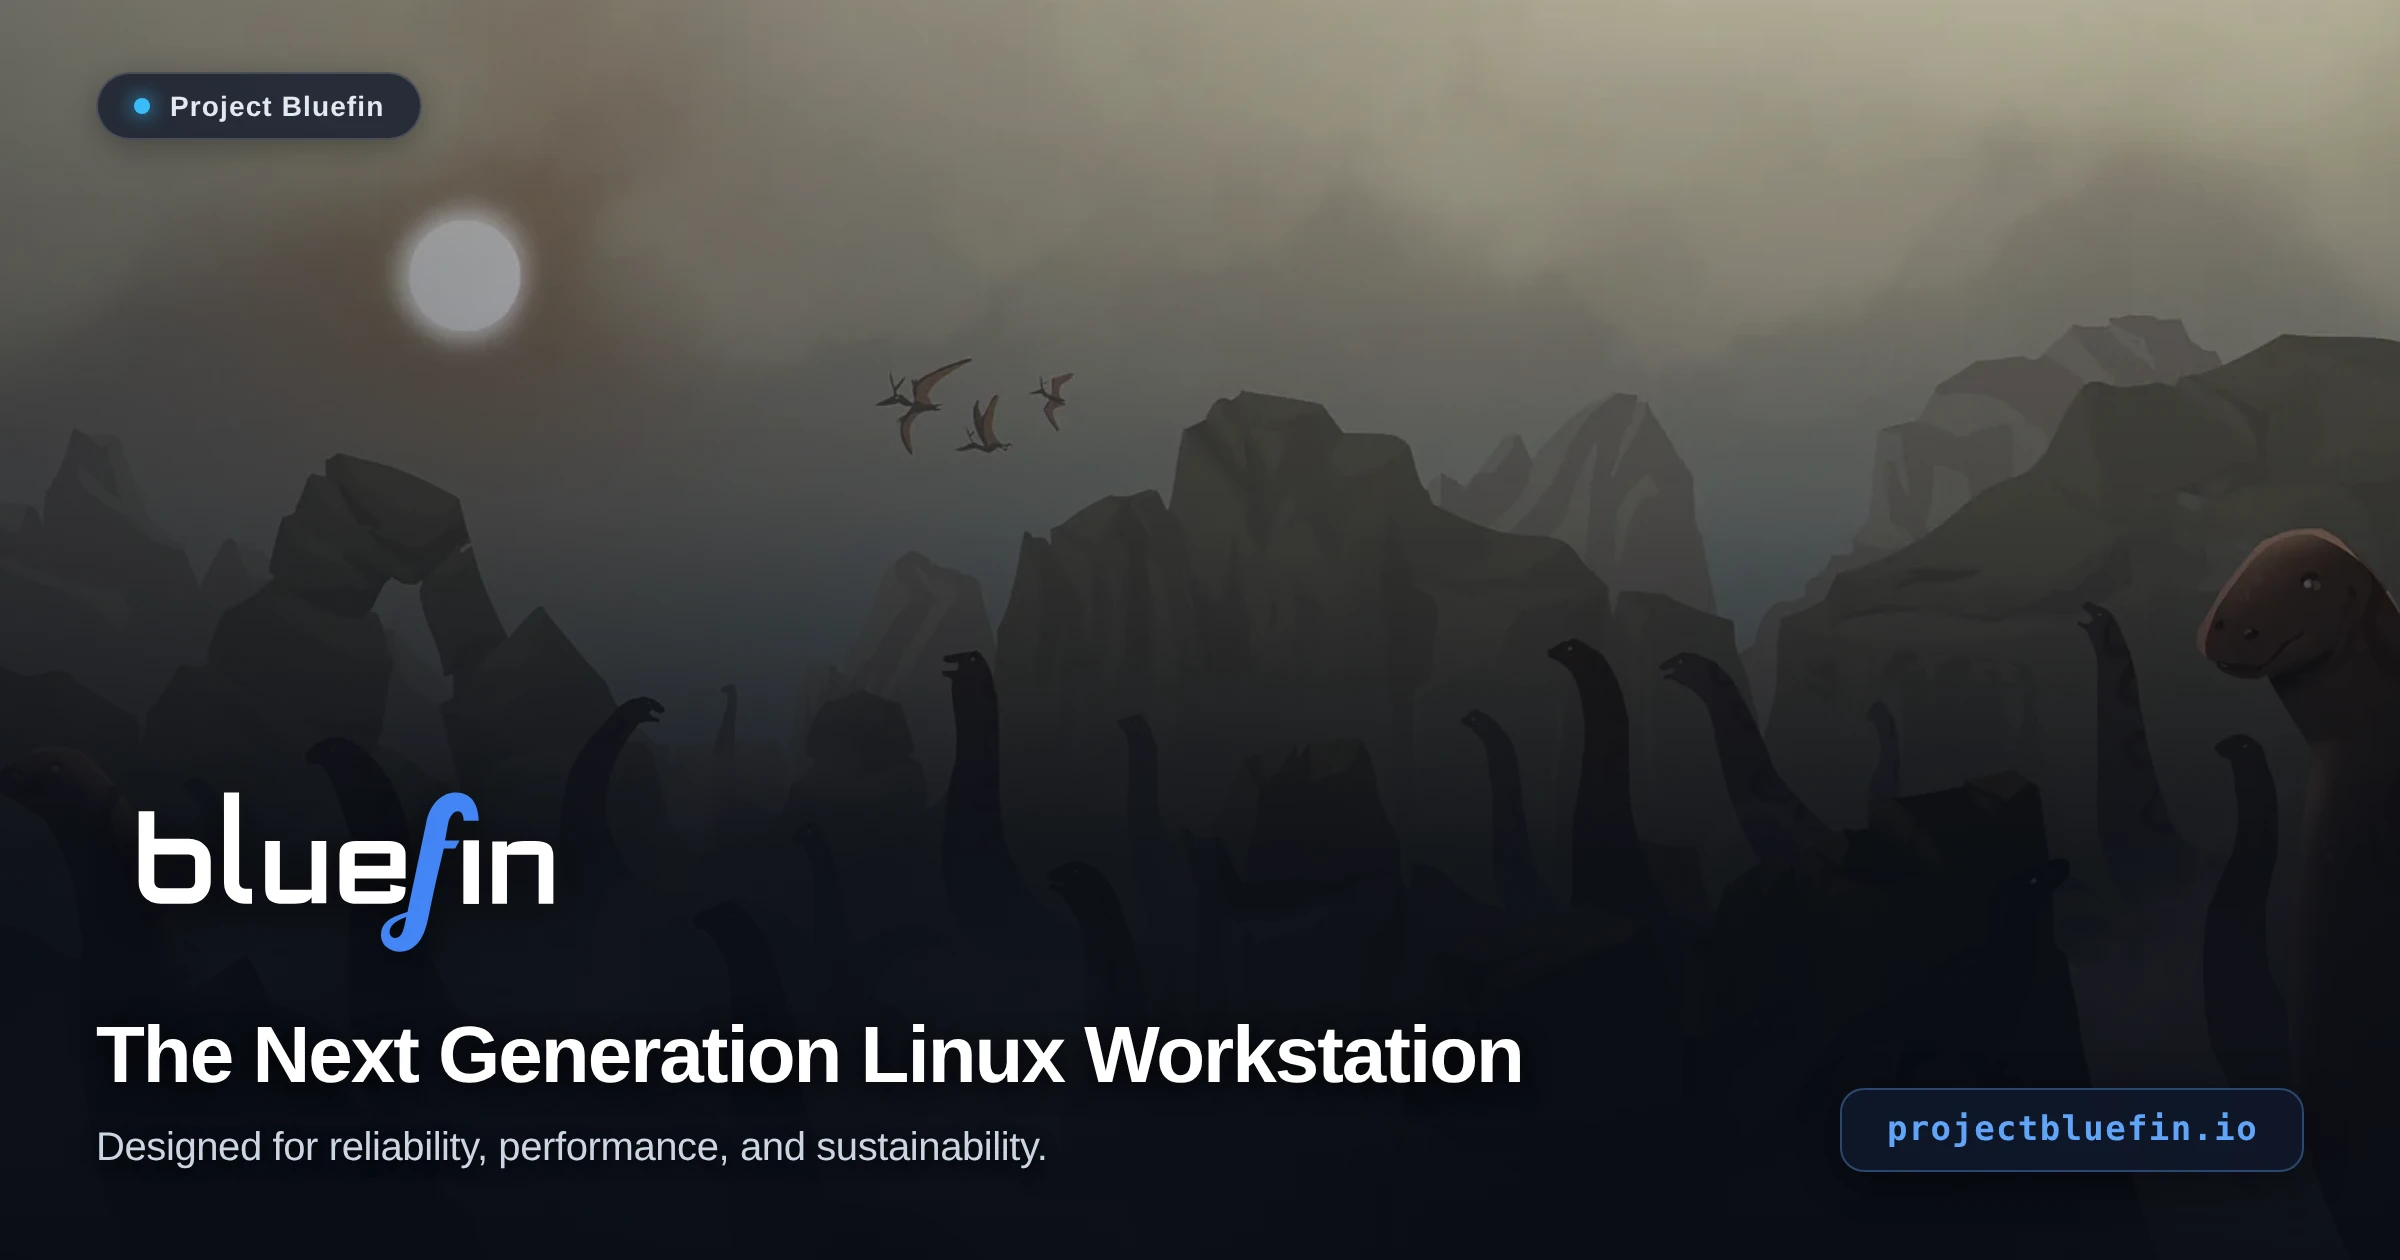
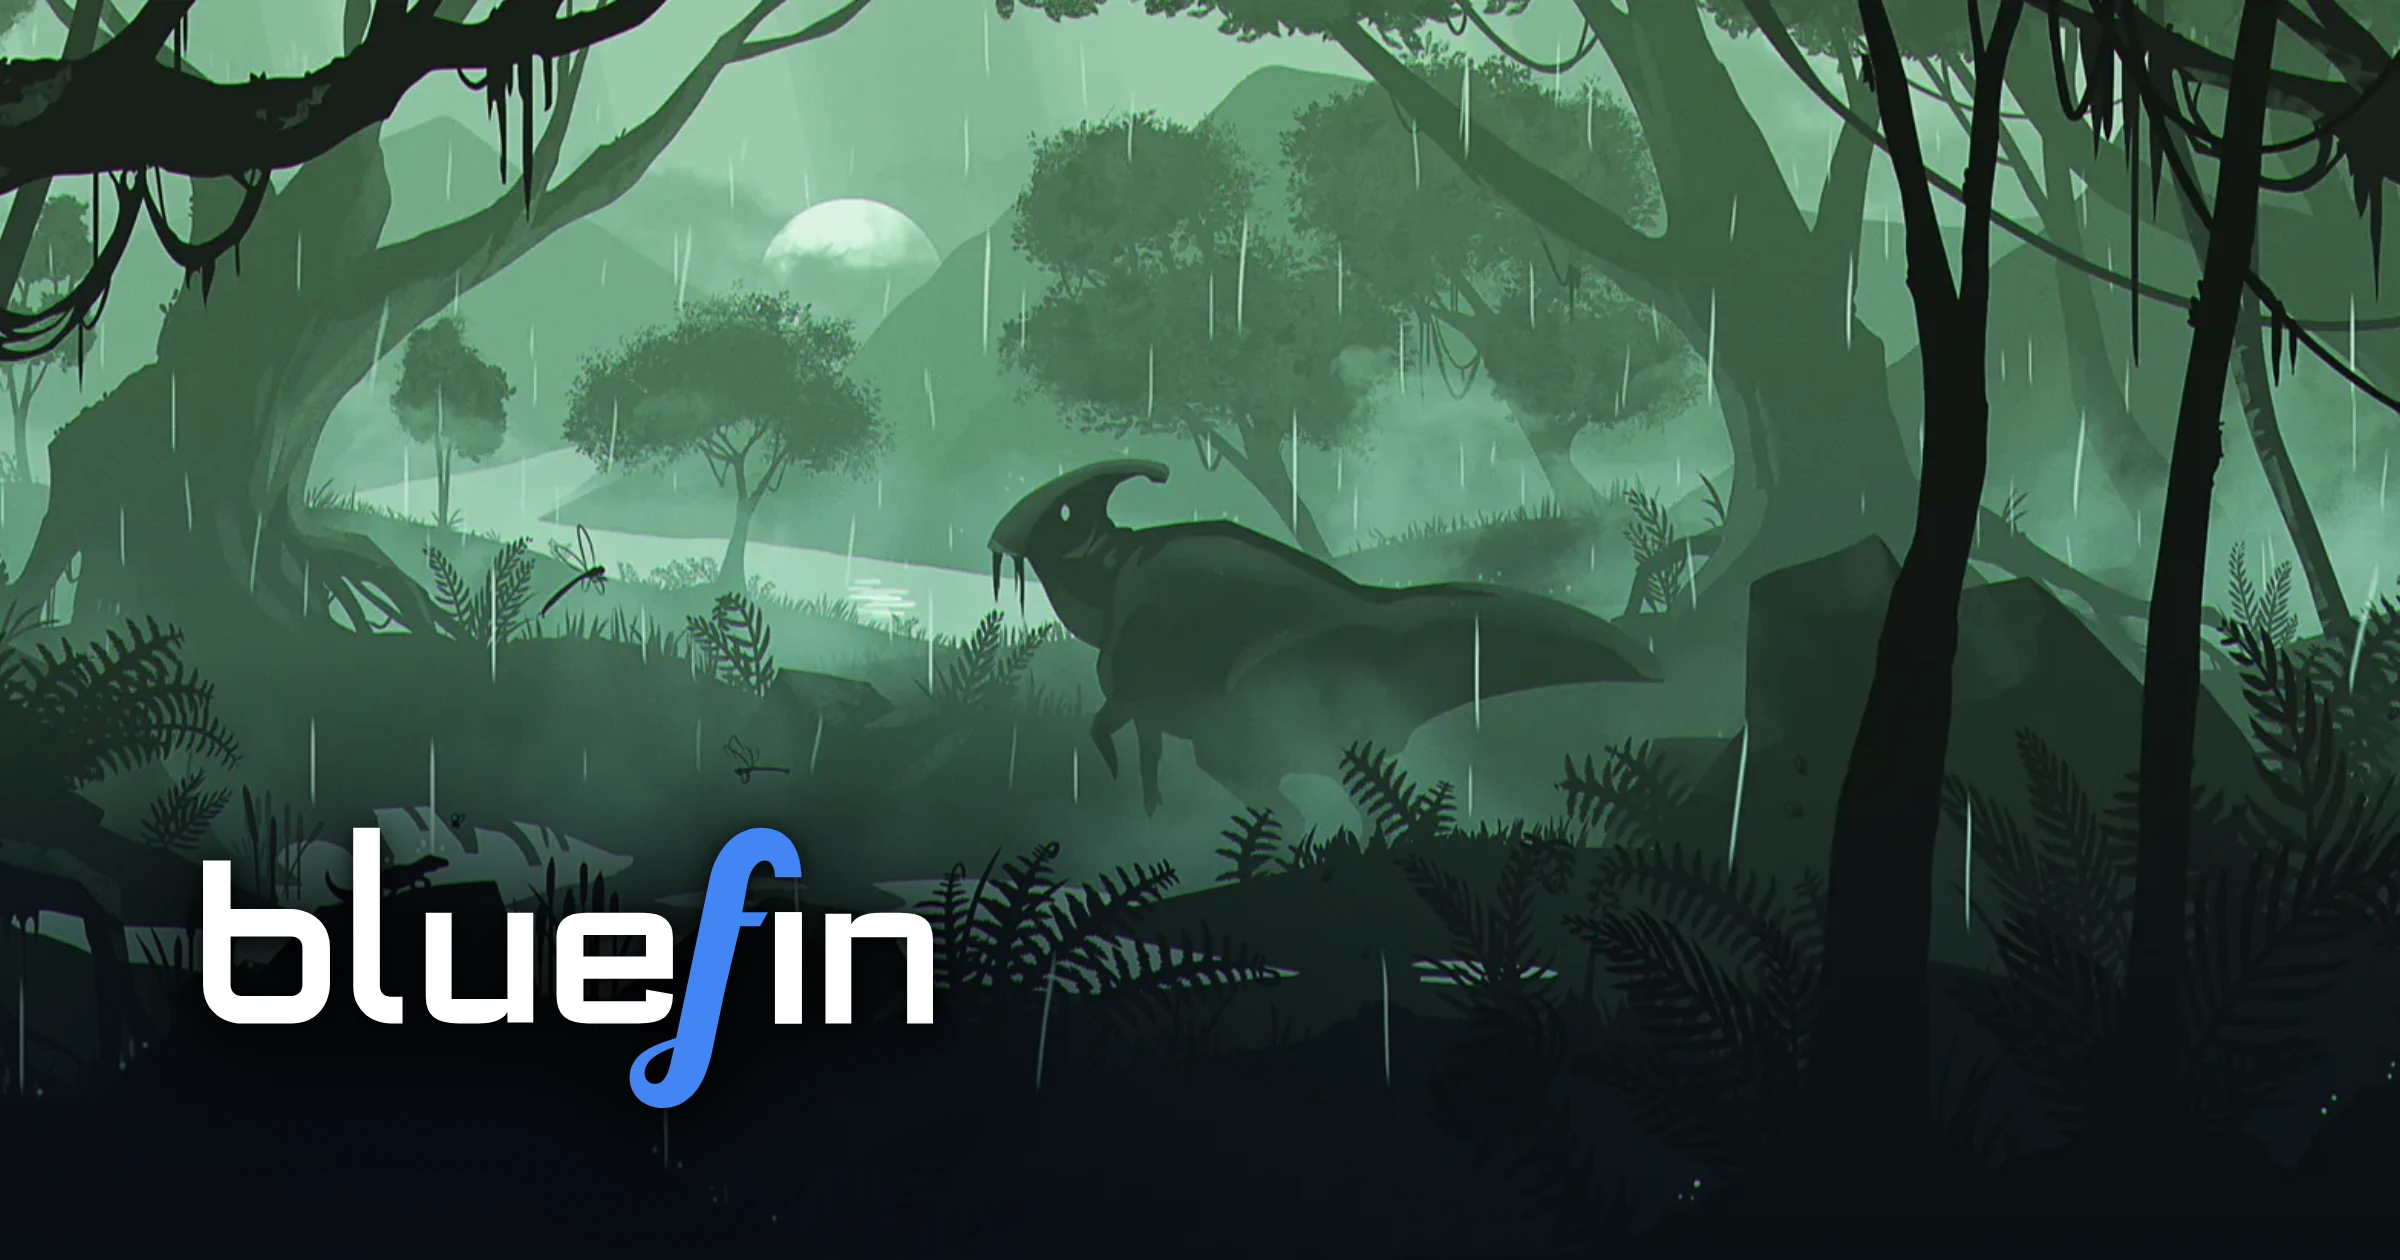
refactor(seo): adopt wallpaper signature layout for social cards
Strip redundant headline, subtext, and UI pills duplicating native
Discord/Twitter embed frames. Promote bold Bluefin wordmark with
subtle corner vignette, preserving artwork vibrancy and thumbnail
legibility.

Assisted-by: Gemini 3.8 Flash via GitHub Copilot CLI

diff --git a/scripts/social-cards/template.html b/scripts/social-cards/template.html
@@ -10,8 +10,6 @@
     height: 630px;
     overflow: hidden;
     background: #080c14;
-    font-family: -apple-system, BlinkMacSystemFont, 'Segoe UI', Roboto, 'Inter', Helvetica, Arial, sans-serif;
-    color: #ffffff;
     position: relative;
   }
   .background {
@@ -21,118 +19,28 @@
     background-position: center;
     background-repeat: no-repeat;
   }
-  /* Cinematic contrast scrim: darkens bottom and edges while keeping the art vibrant */
+  /* Localized subtle vignette in lower-left to ensure wordmark legibility on all wallpapers */
   .scrim {
     position: absolute;
     inset: 0;
     background:
-      linear-gradient(to top, rgba(8, 12, 20, 0.95) 0%, rgba(8, 12, 20, 0.82) 32%, rgba(8, 12, 20, 0.35) 60%, transparent 100%),
-      radial-gradient(ellipse 90% 60% at 20% 100%, rgba(14, 27, 49, 0.6) 0%, transparent 80%),
-      linear-gradient(to right, rgba(8, 12, 20, 0.4) 0%, transparent 60%);
-  }
-  .top-row {
-    position: absolute;
-    top: 36px;
-    left: 48px;
-    right: 48px;
-    display: flex;
-    justify-content: space-between;
-    align-items: center;
-    z-index: 2;
-  }
-  .brand-badge {
-    display: flex;
-    align-items: center;
-    gap: 10px;
-    background: rgba(15, 23, 42, 0.75);
-    backdrop-filter: blur(16px);
-    -webkit-backdrop-filter: blur(16px);
-    border: 1px solid rgba(255, 255, 255, 0.16);
-    padding: 8px 18px;
-    border-radius: 9999px;
-    font-size: 14px;
-    font-weight: 600;
-    letter-spacing: 0.04em;
-    color: #e2e8f0;
-    box-shadow: 0 4px 16px rgba(0, 0, 0, 0.3);
-  }
-  .badge-dot {
-    width: 8px;
-    height: 8px;
-    border-radius: 50%;
-    background: #38bdf8;
-    box-shadow: 0 0 10px #38bdf8;
-  }
-  .wallpaper-credit {
-    font-family: ui-monospace, 'SFMono-Regular', 'Cascadia Mono', monospace;
-    font-size: 13px;
-    color: #94a3b8;
-    background: rgba(15, 23, 42, 0.65);
-    backdrop-filter: blur(12px);
-    -webkit-backdrop-filter: blur(12px);
-    border: 1px solid rgba(255, 255, 255, 0.12);
-    padding: 6px 14px;
-    border-radius: 8px;
-    letter-spacing: 0.05em;
+      radial-gradient(ellipse 70% 50% at 20% 88%, rgba(6, 10, 18, 0.78) 0%, rgba(6, 10, 18, 0.4) 45%, transparent 75%),
+      linear-gradient(to top, rgba(6, 10, 18, 0.5) 0%, transparent 40%);
   }
   .bottom-content {
     position: absolute;
-    bottom: 44px;
-    left: 48px;
-    right: 48px;
-    display: flex;
-    justify-content: space-between;
-    align-items: flex-end;
+    bottom: 56px;
+    left: 64px;
     z-index: 2;
   }
-  .main-lockup {
-    max-width: 780px;
-  }
   .wordmark-wrap {
-    width: 250px;
-    margin-bottom: 18px;
-    filter: drop-shadow(0 2px 10px rgba(0, 0, 0, 0.7));
+    width: 440px;
+    filter: drop-shadow(0 6px 28px rgba(0, 0, 0, 0.9)) drop-shadow(0 2px 6px rgba(0, 0, 0, 0.95));
   }
   .wordmark-wrap svg {
     width: 100%;
     height: auto;
     display: block;
-  }
-  .headline {
-    font-size: 40px;
-    font-weight: 800;
-    letter-spacing: -0.025em;
-    color: #ffffff;
-    line-height: 1.15;
-    margin-bottom: 12px;
-    text-shadow: 0 2px 14px rgba(0, 0, 0, 0.9);
-  }
-  .subtext {
-    font-size: 20px;
-    font-weight: 400;
-    color: #cbd5e1;
-    letter-spacing: -0.01em;
-    text-shadow: 0 2px 8px rgba(0, 0, 0, 0.85);
-  }
-  .domain-card {
-    display: flex;
-    flex-direction: column;
-    align-items: flex-end;
-    gap: 8px;
-  }
-  .domain-pill {
-    font-family: ui-monospace, 'SFMono-Regular', 'Cascadia Mono', monospace;
-    font-size: 17px;
-    font-weight: 600;
-    color: #60a5fa;
-    background: rgba(15, 23, 42, 0.85);
-    border: 1px solid rgba(96, 165, 250, 0.35);
-    padding: 10px 22px;
-    border-radius: 12px;
-    letter-spacing: 0.04em;
-    backdrop-filter: blur(12px);
-    -webkit-backdrop-filter: blur(12px);
-    box-shadow: 0 4px 20px rgba(0, 0, 0, 0.4);
   }
 </style>
 </head>
@@ -140,43 +48,14 @@
   <div class="background" id="bg"></div>
   <div class="scrim"></div>
 
-  <div class="top-row">
-    <div class="brand-badge">
-      <span class="badge-dot"></span>
-      <span>Project Bluefin</span>
-    </div>
-    <div class="wallpaper-credit" id="credit"></div>
-  </div>
-
   <div class="bottom-content">
-    <div class="main-lockup">
-      <div class="wordmark-wrap" id="wordmark"></div>
-      <div class="headline" id="headline">The Next Generation Linux Workstation</div>
-      <div class="subtext" id="subtext">Designed for reliability, performance, and sustainability.</div>
-    </div>
-    <div class="domain-card">
-      <div class="domain-pill" id="domain">projectbluefin.io</div>
-    </div>
+    <div class="wordmark-wrap" id="wordmark"></div>
   </div>
 
   <script>
     const params = new URLSearchParams(window.location.search)
     if (params.get('bg')) {
       document.getElementById('bg').style.backgroundImage = `url('${params.get('bg')}')`
-    }
-    if (params.get('credit')) {
-      document.getElementById('credit').textContent = params.get('credit')
-    } else {
-      document.getElementById('credit').style.display = 'none'
-    }
-    if (params.get('headline')) {
-      document.getElementById('headline').textContent = params.get('headline')
-    }
-    if (params.get('subtext')) {
-      document.getElementById('subtext').textContent = params.get('subtext')
-    }
-    if (params.get('domain')) {
-      document.getElementById('domain').textContent = params.get('domain')
     }
   </script>
 </body>

diff --git a/scripts/generate-social-cards.js b/scripts/generate-social-cards.js
@@ -111,7 +111,6 @@ export async function generateSocialCard({
     templateHtml = templateHtml
       .replace('<div class="background" id="bg"></div>', `<div class="background" id="bg" style="background-image: url('${wallpaperDataUrl}')"></div>`)
       .replace('<div class="wordmark-wrap" id="wordmark"></div>', `<div class="wordmark-wrap" id="wordmark">${wordmarkSvg}</div>`)
-      .replace('<div class="wallpaper-credit" id="credit"></div>', `<div class="wallpaper-credit" id="credit">${wallpaper.title}</div>`)
 
     const page = await activeBrowser.newPage({
       viewport: { width: 1200, height: 630 },

diff --git a/scripts/tests/generate-social-card.test.ts b/scripts/tests/generate-social-card.test.ts
@@ -59,8 +59,7 @@ describe('social cards wallpaper pool', () => {
     expect(content).toContain('class="background"')
     expect(content).toContain('class="scrim"')
     expect(content).toContain('id="wordmark"')
-    expect(content).toContain('id="headline"')
-    expect(content).toContain('projectbluefin.io')
+    expect(content).toContain('class="wordmark-wrap"')
   })
 
   it('renders a valid social card with generateSocialCard', async () => {
